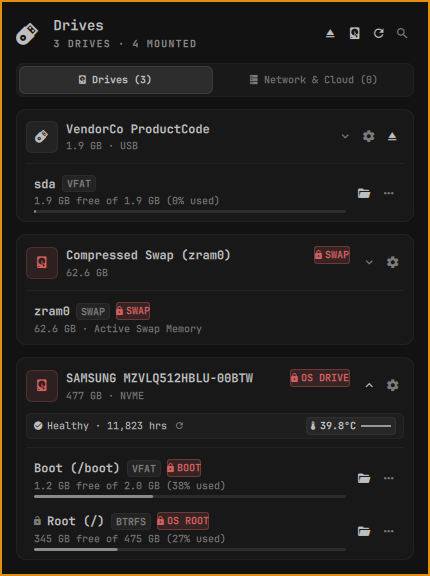
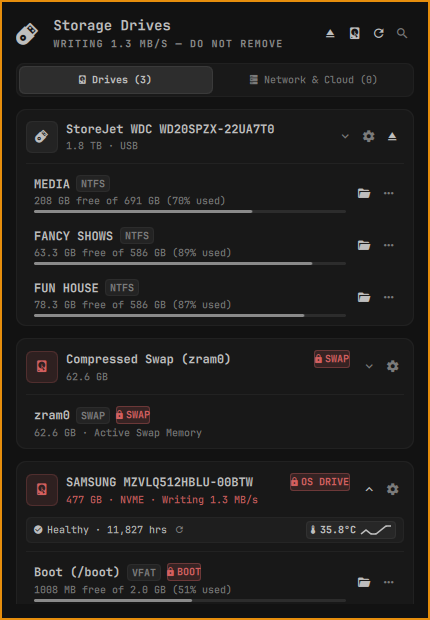
refactor: rename drives module to storage-drives and use Model.shellQuote for command arguments

diff --git a/Panel.qml b/Panel.qml
@@ -16,8 +16,8 @@ import "Model.js" as Model
 Panel {
   id: root
 
-  moduleName: "drives"
-  ipcTarget: "drives"
+  moduleName: "storage-drives"
+  ipcTarget: "storage-drives"
   manageIpc: false
 
   readonly property color foreground: bar ? bar.foreground : Color.foreground
@@ -64,7 +64,7 @@ Panel {
   }
 
   function runNtfsFix(path) {
-    var cmd = path && path !== "" ? "omarchy-ntfs-fix " + path : "omarchy-ntfs-fix"
+    var cmd = path && path !== "" ? "omarchy-ntfs-fix " + Model.shellQuote(path) : "omarchy-ntfs-fix"
     if (root.bar) {
       root.bar.run("omarchy-launch-floating-terminal-with-presentation " + cmd)
     } else {
@@ -74,7 +74,7 @@ Panel {
 
   function launchFormat(devicePath) {
     if (!devicePath || devicePath === "") return
-    var cmd = "omarchy-drive-format '" + devicePath + "'"
+    var cmd = "omarchy-drive-format " + Model.shellQuote(devicePath)
     if (root.bar) {
       root.bar.run("omarchy-launch-floating-terminal-with-presentation " + cmd)
     } else {
@@ -83,7 +83,7 @@ Panel {
   }
 
   function runSpeedTest(mountpoint) {
-    var cmd = "omarchy-disk-speedtest '" + (mountpoint || "/tmp") + "'"
+    var cmd = "omarchy-disk-speedtest " + Model.shellQuote(mountpoint || "/tmp")
     if (root.bar) {
       root.bar.run("omarchy-launch-floating-terminal-with-presentation " + cmd)
     } else {
@@ -92,7 +92,7 @@ Panel {
   }
 
   function runBtrfsScrub(mountpoint) {
-    var cmd = "omarchy-drive-scrub '" + (mountpoint || "/") + "'"
+    var cmd = "omarchy-drive-scrub " + Model.shellQuote(mountpoint || "/")
     if (root.bar) {
       root.bar.run("omarchy-launch-floating-terminal-with-presentation " + cmd)
     } else {
@@ -101,7 +101,7 @@ Panel {
   }
 
   function runTrim(mountpoint) {
-    var cmd = "omarchy-drive-trim '" + (mountpoint || "/") + "'"
+    var cmd = "omarchy-drive-trim " + Model.shellQuote(mountpoint || "/")
     if (root.bar) {
       root.bar.run("omarchy-launch-floating-terminal-with-presentation " + cmd)
     } else {
@@ -110,7 +110,7 @@ Panel {
   }
 
   function runFlash(devicePath) {
-    var cmd = "omarchy-drive-flash '" + (devicePath || "") + "'"
+    var cmd = "omarchy-drive-flash " + Model.shellQuote(devicePath || "")
     if (root.bar) {
       root.bar.run("omarchy-launch-floating-terminal-with-presentation " + cmd)
     } else {
@@ -119,7 +119,7 @@ Panel {
   }
 
   function runRecovery(targetPath) {
-    var cmd = "omarchy-drive-recover '" + (targetPath || "") + "'"
+    var cmd = "omarchy-drive-recover " + Model.shellQuote(targetPath || "")
     if (root.bar) {
       root.bar.run("omarchy-launch-floating-terminal-with-presentation " + cmd)
     } else {
@@ -685,7 +685,7 @@ Panel {
           PanelHero {
             id: hero
             width: parent.width
-            title: root.activeTab === "network" ? "Network Storage" : "Drives"
+            title: root.activeTab === "network" ? "Network Storage" : "Storage Drives"
             meta: root.activeTab === "network"
               ? (drives.networkCount === 0 ? "No active network mounts" : drives.networkCount + " mounted network / cloud " + (drives.networkCount === 1 ? "share" : "shares"))
               : (drives.anyBusy

diff --git a/test/model.test.js b/test/model.test.js
@@ -930,6 +930,45 @@ test("quotes the empty and null cases without producing bare quotes", () => {
   assert.strictEqual(api.shellQuote("/run/media/x/PLAIN"), "'/run/media/x/PLAIN'")
 })
 
+test("quotes hostile device labels and mountpoints with single quotes, double quotes, and newlines", () => {
+  // Removable filesystems control their volume labels and udisks mountpoints.
+  // A label with single quotes or newlines must never break out of shell quoting
+  // when invoked by Speed Test, Scrub, Trim, Recovery, or Format.
+  const hostileMounts = [
+    "/run/media/user/Flash'Drive",
+    "/run/media/user/Drive\nWith\nNewlines",
+    "/run/media/user/Don't Stop\nNow",
+    "/run/media/user/USB'$(reboot)'",
+    "/run/media/user/My 'Favorite' Drive\n2026",
+    "/run/media/user/a'; rm -rf /; echo 'pwned"
+  ]
+
+  for (const mountpoint of hostileMounts) {
+    const quoted = api.shellQuote(mountpoint)
+    // Always wrapped in POSIX single quotes
+    assert.ok(quoted.startsWith("'") && quoted.endsWith("'"))
+    // In POSIX shell, no literal unescaped single quote exists inside the single quotes
+    const inner = quoted.slice(1, -1)
+    const segments = inner.split("'\\''")
+    for (const segment of segments) {
+      assert.ok(!segment.includes("'"), `segment still contained unescaped single quote: ${segment}`)
+    }
+    // Round-trip verification: what a POSIX shell produces when unquoting
+    const unquoted = segments.join("'")
+    assert.strictEqual(unquoted, mountpoint, "POSIX shell unquotes back to exact original path")
+  }
+})
+
+test("device with hostile label containing quotes and newlines parses with exact mountpoint", () => {
+  const hostileLabel = "Jane's\nBackup"
+  const hostileMount = `/run/media/user/${hostileLabel}`
+  const parsed = api.parse(tree([disk({
+    children: [part({ label: hostileLabel, mountpoint: hostileMount })]
+  })]))
+  assert.strictEqual(parsed[0].volumes[0].mountpoint, hostileMount)
+  assert.strictEqual(api.shellQuote(parsed[0].volumes[0].mountpoint), `'/run/media/user/Jane'\\''s\nBackup'`)
+})
+
 test("keeps paths byte-exact, since commands are built from them", () => {
   // Sanitising is for display only. A mount point containing an angle bracket
   // is legal on Linux, and mangling it would unmount or open the wrong thing.

diff --git a/test/wiring.test.js b/test/wiring.test.js
@@ -193,6 +193,13 @@ check("no device path reaches a shell command unquoted", () => {
       problems.push(`Service.qml:${index + 1}: ${match[0]} reaches a command without quote()`)
     }
   })
+  panelSource.split("\n").forEach((line, index) => {
+    const code = stripComment(line)
+    if (!code.includes("omarchy-")) return
+    if (code.includes("'\" +") || code.includes("+ \"'") || code.includes("+'\"") || code.includes("\"'+")) {
+      problems.push(`Panel.qml:${index + 1}: command argument uses literal single quotes instead of Model.shellQuote()`)
+    }
+  })
   return problems
 })
 
@@ -202,7 +209,7 @@ const IPC_INTERNAL = new Set(["open", "close", "show", "hide", "toggle"])
 
 check("every scripting verb the README documents is handled", () => {
   const handled = new Set(ipcVerbs())
-  return [...readme.matchAll(/omarchy-shell (?:removable-drives|drives) ([A-Za-z]\w*)/g)]
+  return [...readme.matchAll(/omarchy-shell (?:removable-drives|drives|storage-drives) ([A-Za-z]\w*)/g)]
     .map(m => m[1])
     .filter(verb => !handled.has(verb))
     .map(verb => `README documents "${verb}", which the IpcHandler does not define`)

diff --git a/Service.qml b/Service.qml
@@ -928,7 +928,7 @@ Item {
     var name = progressName(device)
     if (name === "") return
     markHookStarted(name)
-    Quickshell.execDetached(["bash", "-c", hookScript, "removable-drives",
+    Quickshell.execDetached(["bash", "-c", hookScript, "storage-drives",
                              progressDir, name, device.path, mountpointOf(device), command])
   }
 
@@ -1524,7 +1524,7 @@ Item {
       smart = ({})
       return
     }
-    var command = ["bash", "-c", smartScript, "drives"]
+    var command = ["bash", "-c", smartScript, "storage-drives"]
     for (var p = 0; p < paths.length; p++) command.push(paths[p])
     smartProcess.command = command
     smartProcess.running = true
@@ -1623,7 +1623,7 @@ Item {
 
   function copyPath(volume) {
     if (!volume || !volume.mounted) return
-    Quickshell.execDetached(["bash", "-c", 'printf %s "$1" | wl-copy', "removable-drives", volume.mountpoint])
+    Quickshell.execDetached(["bash", "-c", 'printf %s "$1" | wl-copy', "storage-drives", volume.mountpoint])
     actionStatus = "Copied " + volume.mountpoint
   }
 

diff --git a/README.md b/README.md
@@ -1,8 +1,8 @@
-# Advanced Storage & Drives (`drives`)
+# Storage Drives (`storage-drives`)
 
 USB sticks, SD cards, phones, external HDDs/SSDs, and internal system storage in the Omarchy bar: mount, open, inspect, format, auto-repair NTFS dirty bits, and safely eject without leaving the desktop.
 
-## Advanced Features in Drives
+## Advanced Features in Storage Drives
 
 - **Whole-Disk & Partition Formatter**: Format an entire physical drive (e.g. `/dev/sda`) or single partitions directly from the UI. Automatically cleans old signatures (`wipefs`), re-creates a clean GPT partition table via `parted`, provisions filesystems (`exfat`, `ntfs`, `ext4`, `btrfs`, `vfat`), fixes ownership/permissions, and mounts via `udisksctl`. Features built-in safeguards to strictly block system NVMe/root drives from accidental destruction.
 - **NTFS Dirty-Bit Auto-Fix**: Automatically detects NTFS volumes unmountable due to Windows hibernation or dirty flags. One click runs targeted repair via `omarchy-ntfs-fix` in a presentation terminal and re-mounts the drive.
@@ -228,24 +228,24 @@ an archive drive came up writable.
 ## Scripting
 
 ```bash
-omarchy-shell drives toggle
-omarchy-shell drives refresh                       # re-read what is attached
-omarchy-shell drives list                          # drives, as JSON
-omarchy-shell drives phones                        # phones, as JSON
-omarchy-shell drives network                       # network & cloud mounts, as JSON
-omarchy-shell drives status                        # {"busy":false,…}
-omarchy-shell drives eject /dev/sdb                # or ejectAll
-omarchy-shell drives rename /dev/sdb "Work backup" # "" clears it
-omarchy-shell drives label /dev/sdb1 "Photos"      # the label on the drive
-omarchy-shell drives check /dev/sdb1               # verdict lands in status
-omarchy-shell drives smart /dev/sdb                # health, as JSON
-omarchy-shell drives mountReadOnly /dev/sdb1       # rescue without writing
-omarchy-shell drives lock /dev/mapper/luks-…       # close an open container
-omarchy-shell drives format /dev/sdb1 exfat Photos # erases the volume
-omarchy-shell drives expandDevice /dev/sdb         # expand drive settings
-omarchy-shell drives expandVolume /dev/sdb1        # expand volume drawer
-omarchy-shell drives toggleTelemetry /dev/sdb      # toggle telemetry row
-omarchy-shell drives setTab network                # switch to "local" or "network"
+omarchy-shell storage-drives toggle
+omarchy-shell storage-drives refresh                       # re-read what is attached
+omarchy-shell storage-drives list                          # drives, as JSON
+omarchy-shell storage-drives phones                        # phones, as JSON
+omarchy-shell storage-drives network                       # network & cloud mounts, as JSON
+omarchy-shell storage-drives status                        # {"busy":false,…}
+omarchy-shell storage-drives eject /dev/sdb                # or ejectAll
+omarchy-shell storage-drives rename /dev/sdb "Work backup" # "" clears it
+omarchy-shell storage-drives label /dev/sdb1 "Photos"      # the label on the drive
+omarchy-shell storage-drives check /dev/sdb1               # verdict lands in status
+omarchy-shell storage-drives smart /dev/sdb                # health, as JSON
+omarchy-shell storage-drives mountReadOnly /dev/sdb1       # rescue without writing
+omarchy-shell storage-drives lock /dev/mapper/luks-…       # close an open container
+omarchy-shell storage-drives format /dev/sdb1 exfat Photos # erases the volume
+omarchy-shell storage-drives expandDevice /dev/sdb         # expand drive settings
+omarchy-shell storage-drives expandVolume /dev/sdb1        # expand volume drawer
+omarchy-shell storage-drives toggleTelemetry /dev/sdb      # toggle telemetry row
+omarchy-shell storage-drives setTab network                # switch to "local" or "network"
 ```
 
 `format` destroys what is on the volume. It takes the same refusals the panel
